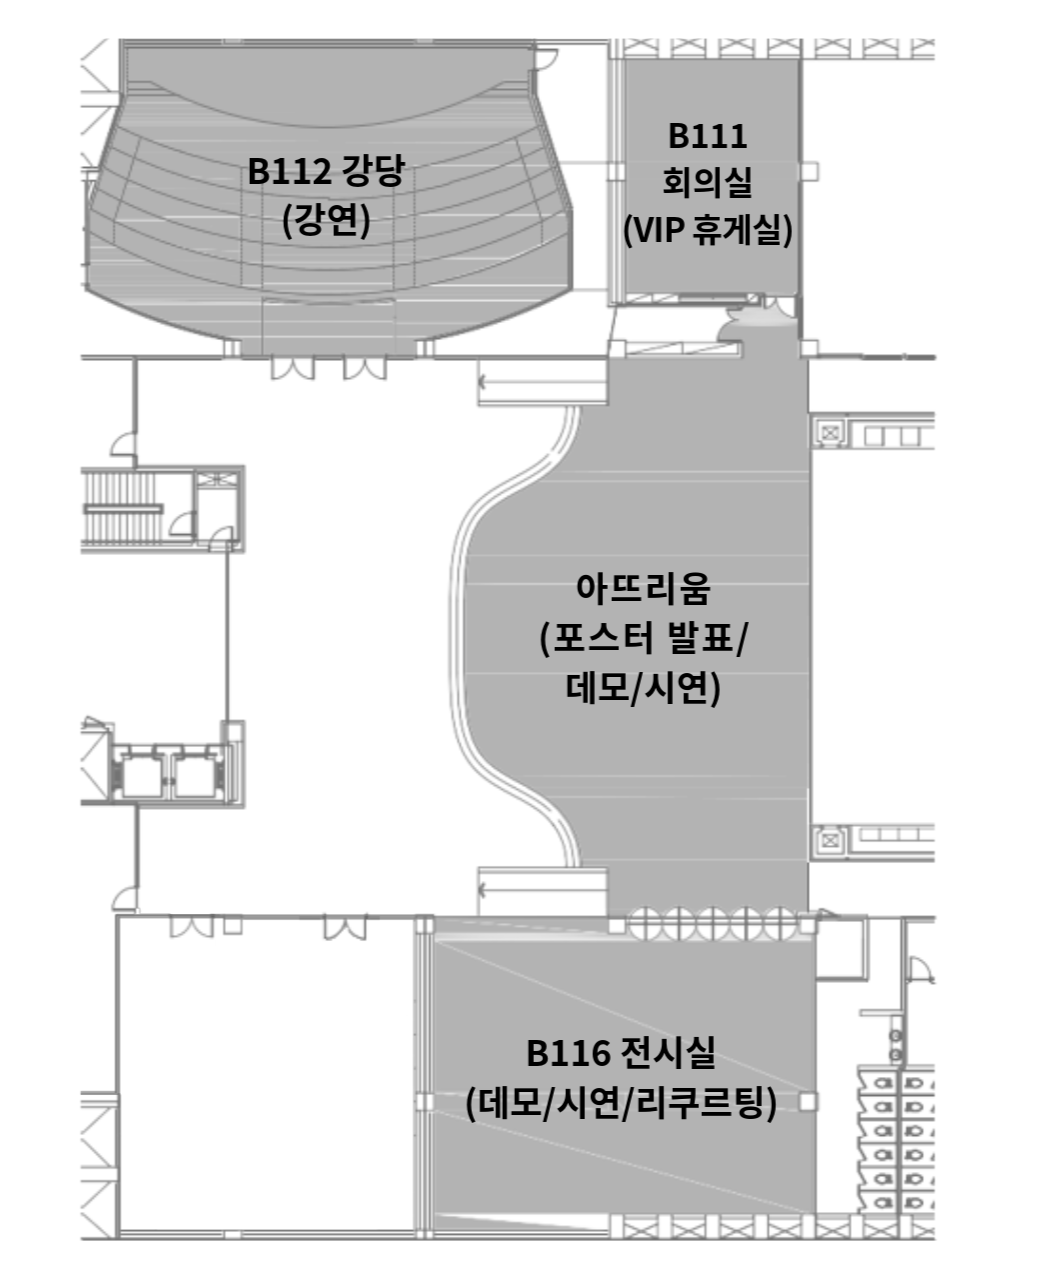
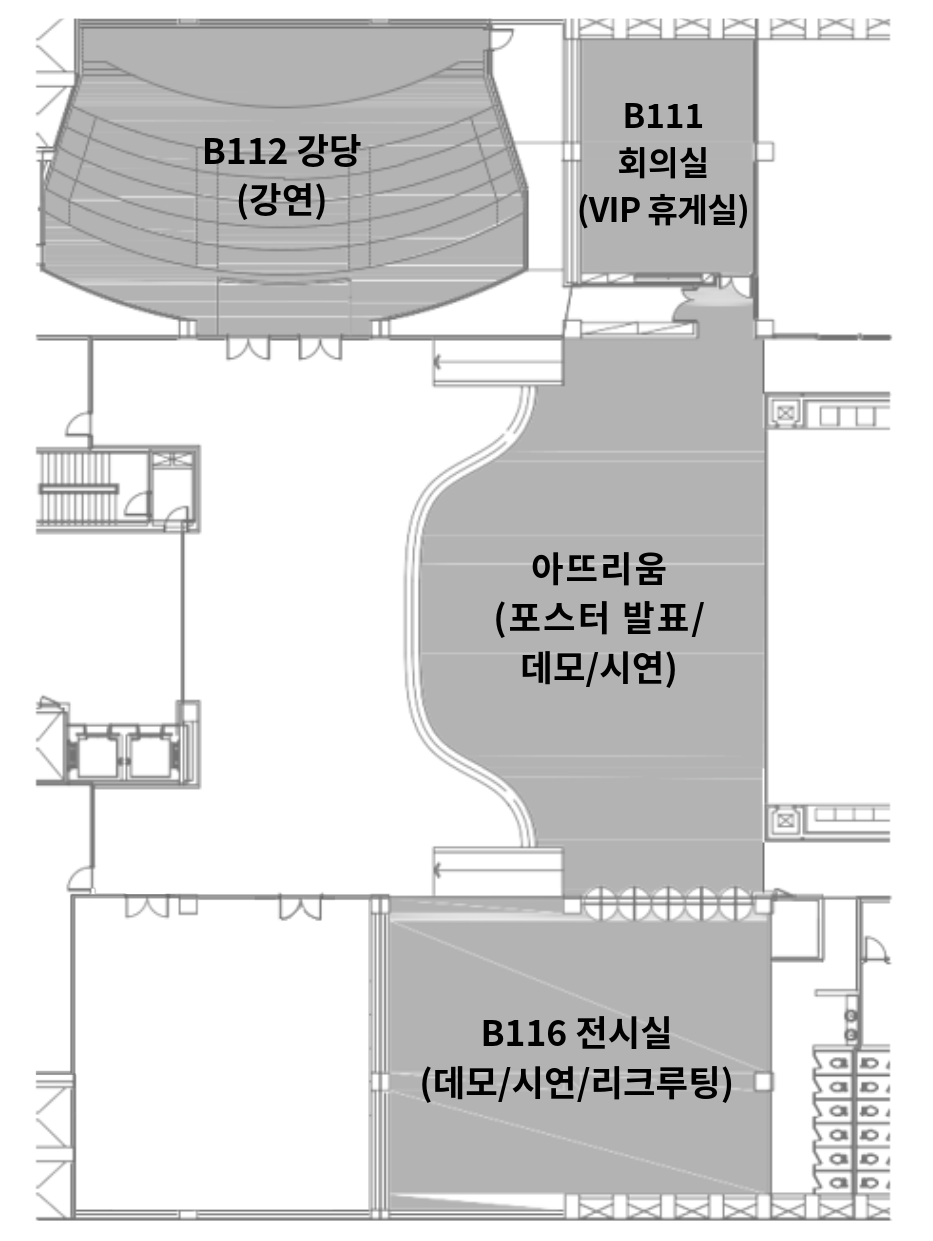
feat: add speaker texts

diff --git a/src/app/program/page.tsx b/src/app/program/page.tsx
@@ -68,7 +68,7 @@ export default function Program() {
 
                     <Row start="16:20" end="16:50" program="Toward Fully Autonomous Embodied Agents" organizer="김현승 팀장" note="크래프톤"/>
                     <Row start="16:50" end="17:20" program="Physical AI 시대의 휴머노이드 로봇 개발" organizer="표윤석 부사장" note="로보티즈"/>
-                    <Row start="17:20" end="17:50" program="TBD" organizer="이재욱 소장" note="LG전자"/>
+                    <Row start="17:20" end="17:50" program="Physical AI 시대_LG의 로봇 생태계" organizer="이재욱 소장" note="LG전자"/>
 
                     <Row start="17:50" end="18:00" program="시상 및 폐회사 (포스터/데모, 고려대학교 x AWS AI Innovators Challenge)" organizer="한정현 사업단장" note="고려대 컴퓨터학과"/>
                 </tbody>

diff --git a/src/app/page.tsx b/src/app/page.tsx
@@ -58,7 +58,7 @@ export default function Home() {
                 </div>
                 <div className="mt-45 lg:mt-30 lg:absolute lg:top-0 lg:right-10 flex flex-col lg:items-end">
                     <div className="w-50 h-50 overflow-hidden rounded-full mx-auto">
-                        <Image src={"/picture.png"} width={200} height={200} alt="" className="w-full h-full object-cover object-[center_80%]"/>
+                        <Image src={"/picture.png"} width={200} height={200} alt="" className="w-full h-full object-cover object-[center_30%]"/>
                     </div>
                     <div className="lg:text-right mt-5">
                         <h3 className="font-bold text-2xl">인사말</h3>
